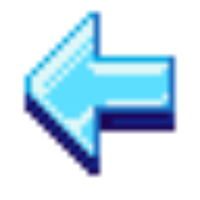
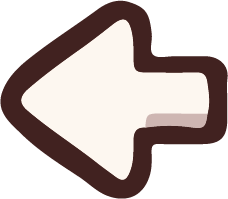
Versio Final 1 Jugador 1.0

diff --git a/App/core/src/com/tenarse/game/screens/ChooseCharacterScreen.java b/App/core/src/com/tenarse/game/screens/ChooseCharacterScreen.java
@@ -53,6 +53,9 @@ public class ChooseCharacterScreen implements Screen {
     private Texture background, chooseBox;
     private Texture btnPlay, btn_left, btn_right;
 
+    private Texture btnReturn;
+    private ImageButton returnBTN;
+
     private Jugador botChooseCrossbow;
     private Jugador botChooseWarhammer;
     private Jugador botChooseShield;
@@ -119,6 +122,11 @@ public class ChooseCharacterScreen implements Screen {
         //Boton JUGAR
         btnPlay = AssetManager.imgPlayBtn;
         imgBtnPlay = new ImageButton(new TextureRegionDrawable(new TextureRegion(btnPlay)));
+
+        //Flecha return
+        btnReturn = AssetManager.imgReturnBtn;
+        returnBTN = new ImageButton(new TextureRegionDrawable(new TextureRegion(btnReturn)));
+
 
         //Caja elegir personaje
         chooseBox = AssetManager.imgChooseBox;
@@ -204,6 +212,7 @@ public class ChooseCharacterScreen implements Screen {
         stage.addActor(textUsername);
         stage.addActor(textNombre);
         stage.addActor(textErrorNombre);
+        stage.addActor(returnBTN);
 
         //Start Character && Start text
         stage.getActors().get(4).setVisible(false);
@@ -254,6 +263,8 @@ public class ChooseCharacterScreen implements Screen {
             textErrorNombre.setPosition(Gdx.graphics.getWidth() / 2 - textErrorNombre.getMinWidth() / 2, textErrorNombre.getMinHeight());
             textUsername.setPosition(Gdx.graphics.getWidth() / 2 - textUsername.getWidth() / 2, textUsername.getMinHeight() + textErrorNombre.getHeight() * 1.5f);
             textNombre.setPosition(Gdx.graphics.getWidth() / 2 - textNombre.getWidth() / 2, textNombre.getMinHeight() + textUsername.getMinHeight() + textErrorNombre.getHeight() * 1.5f);
+            returnBTN.setPosition(0 + returnBTN.getWidth(), Gdx.graphics.getHeight() - returnBTN.getHeight() * 2.5f);
+            returnBTN.getImage().setScale(2f);
         } else {
             imgBtnPlay.setPosition(Gdx.graphics.getWidth() / 2 + imgBtnPlay.getWidth() * 1.5f, 0 + imgBtnPlay.getHeight());
             imgChooseBox.setScale(2f);
@@ -264,6 +275,7 @@ public class ChooseCharacterScreen implements Screen {
             textErrorNombre.setPosition(Gdx.graphics.getWidth() / 2 - textErrorNombre.getMinWidth() / 2, textErrorNombre.getMinHeight());
             textUsername.setPosition(Gdx.graphics.getWidth() / 2 - textUsername.getWidth() / 2, textUsername.getMinHeight() + textErrorNombre.getHeight());
             textNombre.setPosition(Gdx.graphics.getWidth() / 2 - textNombre.getWidth() / 2, textNombre.getMinHeight() + textUsername.getMinHeight() + textErrorNombre.getHeight());
+            returnBTN.setPosition(0 + returnBTN.getWidth() / 2, Gdx.graphics.getHeight() - returnBTN.getHeight() * 1.25f);
         }
 
         Gdx.input.setInputProcessor(stage);
@@ -397,6 +409,14 @@ public class ChooseCharacterScreen implements Screen {
                     textStatArmadura.setText("Armadura: " + armadura);
                 }
 
+                return true;
+            }
+        });
+
+        returnBTN.addListener(new InputListener(){
+            @Override
+            public boolean touchDown(InputEvent event, float x, float y, int pointer, int button) {
+                game.setScreen(new MainMenuScreen(game));
                 return true;
             }
         });

diff --git a/App/core/src/com/tenarse/game/objects/Zombie.java b/App/core/src/com/tenarse/game/objects/Zombie.java
@@ -70,9 +70,9 @@ public class Zombie extends Actor{
         attack = false;
         firstAnimationAttack = false;
         doDamage = false;
-        //createSpawnPosition();
-        position.x = map.getMapWidthInPixels() / 2 - (Settings.PLAYER_WIDTH / 2) - 20; //SPAWN EN EL CENTRO PARA PRUEBAS
-        position.y = map.getMapHeightInPixels() / 2 - (Settings.PLAYER_WIDTH / 2);
+        createSpawnPosition();
+        //position.x = map.getMapWidthInPixels() / 2 - (Settings.PLAYER_WIDTH / 2) - 20; //SPAWN EN EL CENTRO PARA PRUEBAS
+        //position.y = map.getMapHeightInPixels() / 2 - (Settings.PLAYER_WIDTH / 2);
 
         rectanguloDeteccion = new Rectangle();
         rectanguloDeteccion.width = Settings.ZOMBIE_WIDTH;

diff --git a/App/core/src/com/tenarse/game/objects/ConnectionNode.java b/App/core/src/com/tenarse/game/objects/ConnectionNode.java
@@ -21,7 +21,7 @@ public class ConnectionNode {
         HttpRequestBuilder requestBuilder = new HttpRequestBuilder();
 
         final Net.HttpRequest httpRequest = requestBuilder.newRequest().method(Net.HttpMethods.GET).url("http://admin.alumnes.inspedralbes.cat:7073/getStats").build();
-        //final Net.HttpRequest httpRequest = requestBuilder.newRequest().method(Net.HttpMethods.GET).url("http://192.168.207.103:7073/getStats").build();
+        //final Net.HttpRequest httpRequest = requestBuilder.newRequest().method(Net.HttpMethods.GET).url("http://192.168.2.127:7073/getStats").build();
 
         Gdx.net.sendHttpRequest(httpRequest, new Net.HttpResponseListener() {
             @Override

diff --git a/App/core/src/com/tenarse/game/Tenarse.java b/App/core/src/com/tenarse/game/Tenarse.java
@@ -1,26 +1,19 @@
 package com.tenarse.game;
 
 import com.badlogic.gdx.Game;
-import com.badlogic.gdx.Gdx;
-import com.badlogic.gdx.Net;
-import com.badlogic.gdx.net.Socket;
-import com.badlogic.gdx.net.SocketHints;
 import com.tenarse.game.helpers.AssetManager;
-import com.tenarse.game.screens.LoadingScreen;
 import com.tenarse.game.screens.MainMenuScreen;
 
 
 public class Tenarse extends Game {
 
-	public static AssetManager assetManager;
-
 	@Override
 	public void create () {
 		//Carregar totes les textures
-		assetManager = new AssetManager();
+		AssetManager.load();
 
 		//Pantalla 'Inici'
-		setScreen(new LoadingScreen(this));
+		setScreen(new MainMenuScreen(this));
 	}
 
 	@Override
